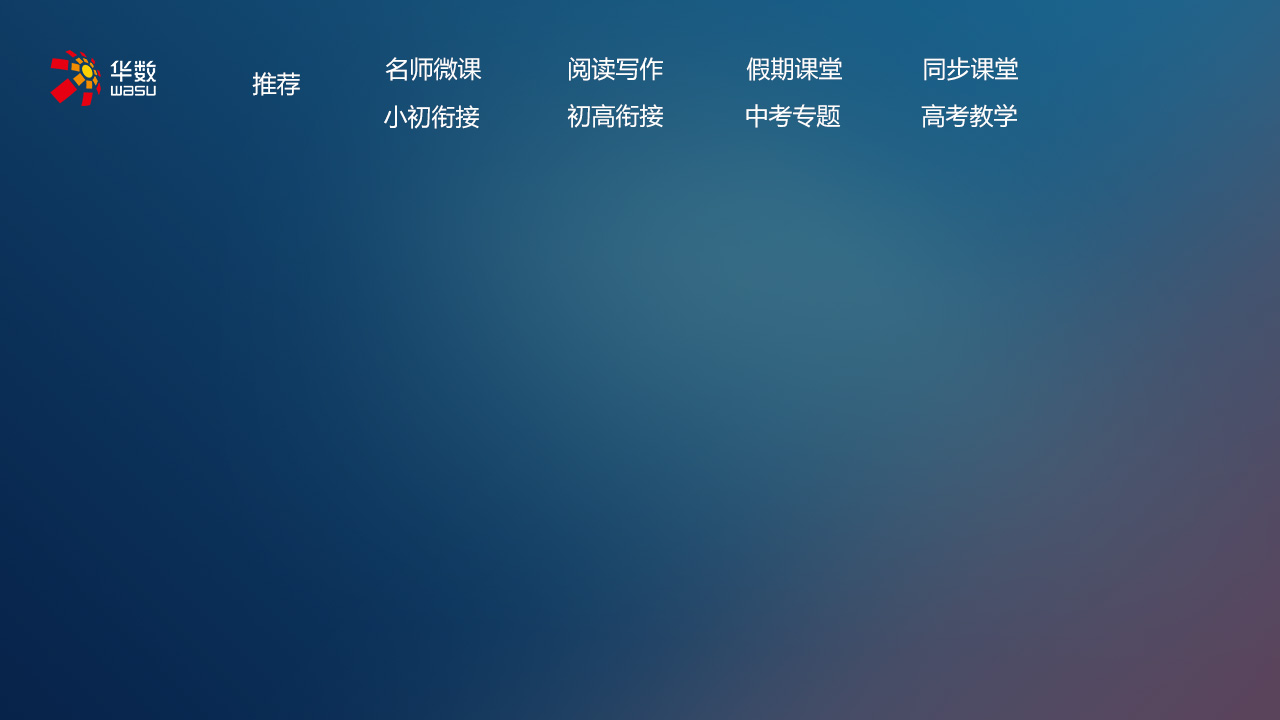
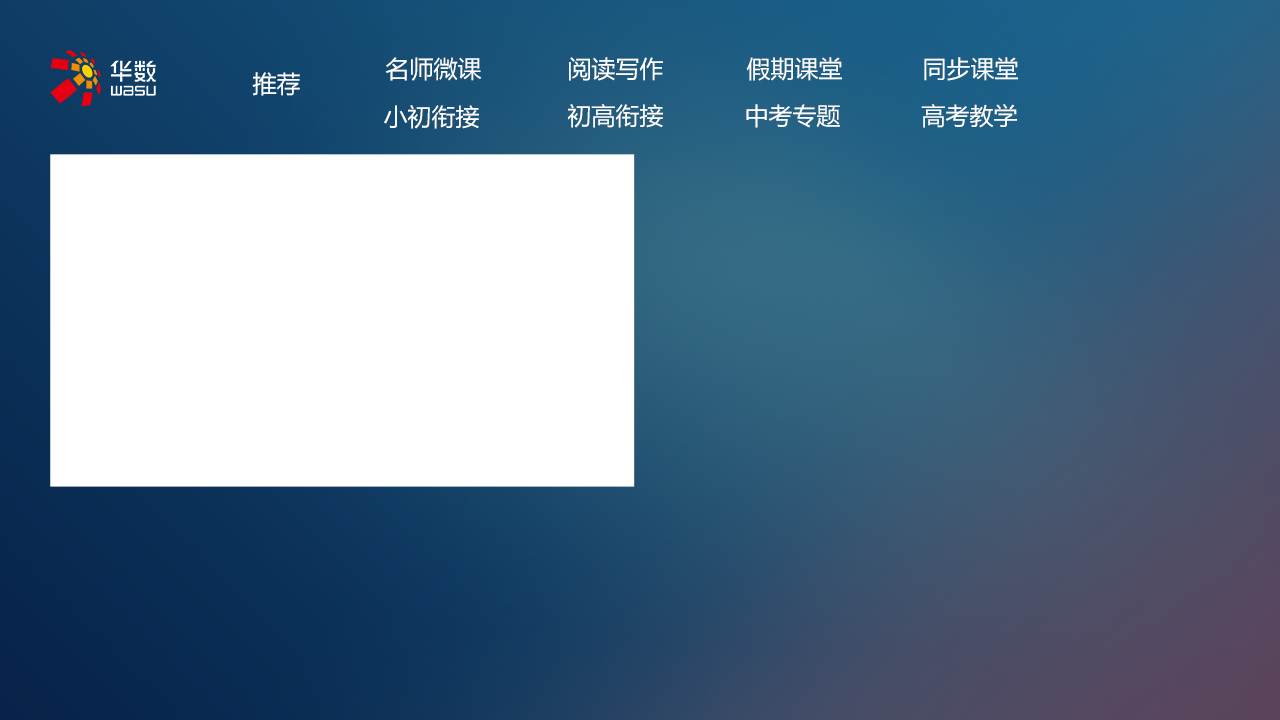
1

Changed region(s): [[0.0312, 0.2139, 0.5, 0.7028]]

diff --git a/ZQKT/ZQKT/homePage/js/homePage.js b/ZQKT/ZQKT/homePage/js/homePage.js
@@ -23,6 +23,7 @@ var videoSize = 0;
 // var newsPage=1;
 // var newsPageSize=0;
 var pos;
+var recommendData={};
 
 function init(){
 	// getList(homePageList,1,5);
@@ -38,6 +39,7 @@ function init(){
     setTimeout(function(){
         attachEvent();
     },300);
+    ajaxGetRecommend(stbId,regionId);
     //ajaxGetVideo();
 }
 
@@ -52,7 +54,7 @@ function ajaxGetVideo() {
             success:
                 function (resp) {
                     eval("menuJson = " + resp.responseText);
-                    json = menuJson.data;
+                    var json = menuJson.data;
                     videoId = json.results[0].id;
                     ajaxGetVideoList(videoId);
                 },
@@ -71,7 +73,7 @@ function ajaxGetVideoList(videoId) {
             success:
                 function (resp) {
                     eval("menuJson = " + resp.responseText);
-                    json = menuJson.data;
+                    var json = menuJson.data;
                     movies = json.contentInfo.split(",");
                     indexmovies = movies[0];
                     initMedia(338, 137, 603, 340);
@@ -82,26 +84,30 @@ function ajaxGetVideoList(videoId) {
                 }
         });
     }
-    function initNews() {
-        //var data = listJson.data.slice(0, 3);部分机顶盒可能不支持slice
-        var data = listJson.data;
-        for (var i = 0; i < 3; i++) {
-            $("news" + i).innerHTML = data[i].title;
+    function ajaxGetRecommend(_stdId,_regionId) {
+        $AJAX(
+            {
+                url: reqUrl + "api/stbContentController/posList?stbId=" + _stdId+"&regionId="+_regionId,
+                method: "get",
+                async: true,
+                success:
+                    function (resp) {
+                        eval("var menuJson = " + resp.responseText);
+                        var json = menuJson.data;
+                        initRecommend(json);
+                    },
+                failed:
+                    function (resp) {
+    
+                    }
+            });
         }
-        focMove(0);
-    }
-function showNews(){
-    var data = listJson.data;
-    for (var i = 0; i < 3; i++) {
-        $("news"+i).innerHTML=data[i].title;
-    }
-}
-//滚动word 文字信息 size 文字信息超过长度将滚动
-function roll(word, _size) {
-    if (word && (word.length > _size)) {
-        return '<marquee id="scroll" style="position:absolute;left:0px;" direction="left" scrollamonut="10" scrolldelay="100">' + word + '</marquee>';
-    } else {
-        return word;
+function initRecommend(_json){
+    var posiList=_json.posiList;
+    var hotlist=_json.hotlist;
+    for(var i=0;i<posiList.length;i++){
+        $("line50").innerHTML='<img id="pic0" src="'+reqUrl+'img/server/'+posiList[1].recommenPositionImg+'" width="292px" height="166px">';
+        $("line51").innerHTML='<img id="pic0" src="'+reqUrl+'img/server/'+posiList[2].recommenPositionImg+'" width="292px" height="166px">';
     }
 }
 //焦点移动

diff --git a/ZQKT/ZQKT/homePage/css/homePage.css b/ZQKT/ZQKT/homePage/css/homePage.css
@@ -3,7 +3,7 @@
 	position:absolute;
 	width: 1280px;
 	height: 720px;
-	background: url('../image/bg_img_02.jpg');
+	background: url('../image/bg_img_01.jpg');
 }
 
 #lineFoc{
@@ -154,3 +154,69 @@
 	background: url('../image/focus_05.png');
 }
 
+
+.line20{
+	position: absolute;
+	left: 1108px;
+    top: 53px;
+    width: 122px;
+    height: 50px;
+	background: url('../image/icon_01.png');
+}	
+.line30{
+	position: absolute;
+	left: 48px;
+    top: 150px;
+    width: 589px;
+	height: 337px;
+	background: royalblue;
+}
+.line40{
+	position: absolute;
+	left: 48px;
+    top: 494px;
+    width: 292px;
+    height: 166px;
+	background: royalblue;
+}
+.line41{
+	position: absolute;
+	left: 344px;
+    top: 494px;
+    width: 292px;
+    height: 166px;
+	background: royalblue;
+}
+
+.line50{
+	position: absolute;
+	left: 641px;
+    top: 151px;
+    width: 292px;
+    height: 166px;
+	background: royalblue;
+}
+.line51{
+	position: absolute;
+	left: 641px;
+    top: 322px;
+    width: 292px;
+    height: 166px;
+	background: royalblue;
+}
+.line52{
+	position: absolute;
+	left: 641px;
+    top: 494px;
+    width: 292px;
+    height: 166px;
+	background: royalblue;
+}
+.line60{
+	position: absolute;
+	left: 938px;
+    top: 151px;
+    width: 293px;
+    height: 509px;
+	background: royalblue;
+}

diff --git a/ZQKT/ZQKT/homePage/homePage.html b/ZQKT/ZQKT/homePage/homePage.html
@@ -41,10 +41,18 @@
 <body bgcolor="transparent" leftmargin="0" topmargin="0" onload="init();" onunload="closeit();">
 <div id="bg" class="bg"></div>
 <!-- <div id="icoImg"><img src='image/ico.png' width='20px' height='20px'></div> -->
-<div id="news0" class="news"></div>
+<!-- <div id="news0" class="news"></div>
 <div id="news1" class="news"></div>
-<div id="news2" class="news"></div>
-
+<div id="news2" class="news"></div> -->
+<div id="line20" class="line20"></div>
+<div id="line30" class="line30"></div>
+<div id="line40" class="line40"></div>
+<div id="line41" class="line41"></div>
+<div id="line50" class="line50"></div>
+<div id="line51" class="line51"></div>
+<div id="line52" class="line52"></div>
+<div id="line53" class="line53"></div>
+<div id="line60" class="line60"></div>
 <!-- <div id="column0"></div>
 <div id="column1"></div>
 <div id="column2"></div>

diff --git a/ZQKT/config.js b/ZQKT/config.js
@@ -1,5 +1,5 @@
-stbId="123_sf";
-var reqUrl="http://218.108.172.135:8080/clearway/";
+stbId="1111";
+var reqUrl="http://192.168.24.11:8082/zqkt/";
 //var reqUrl="http://21.254.220.15:8080/clearway/";
 // var localurl = "http://21.254.180.145:8080/ZSZCProject/"
 // //获取列表
@@ -13,7 +13,7 @@ var reqUrl="http://218.108.172.135:8080/clearway/";
 // //获取公告
 // var noticeurl="http://21.254.218.7:8080/hcms/api/stbContentController/indexnotice";
 // //http://218.108.175.19:8080/hcms/api/stbContentController/indexnotice?stbId=123_sf&regionCode=hs_sf
-
+var regionId="402809246e7d1ec6016e7d2000c60001";
 var sysp="8a0694216d4866c3016d59c7c9930c04";//首页主视频
 var homePageList="8a0694216d4866c3016d59c845ac0c06";//首页视频列表
 var fzzj="8a0694216d4866c3016d59c8d7e40c09";//法治浙江

diff --git a/ZQKT/tools.js b/ZQKT/tools.js
@@ -56,6 +56,7 @@ function ReadStbidNo() {
     try {
     	//var stbid="01001700522020A8BD3A22F792";
         var stbid = hardware.STB.serial;
+        //var stbid= wasuWeb.getStbId();//TVOS
         return stbid;
     }
     catch (e) { return null; }
